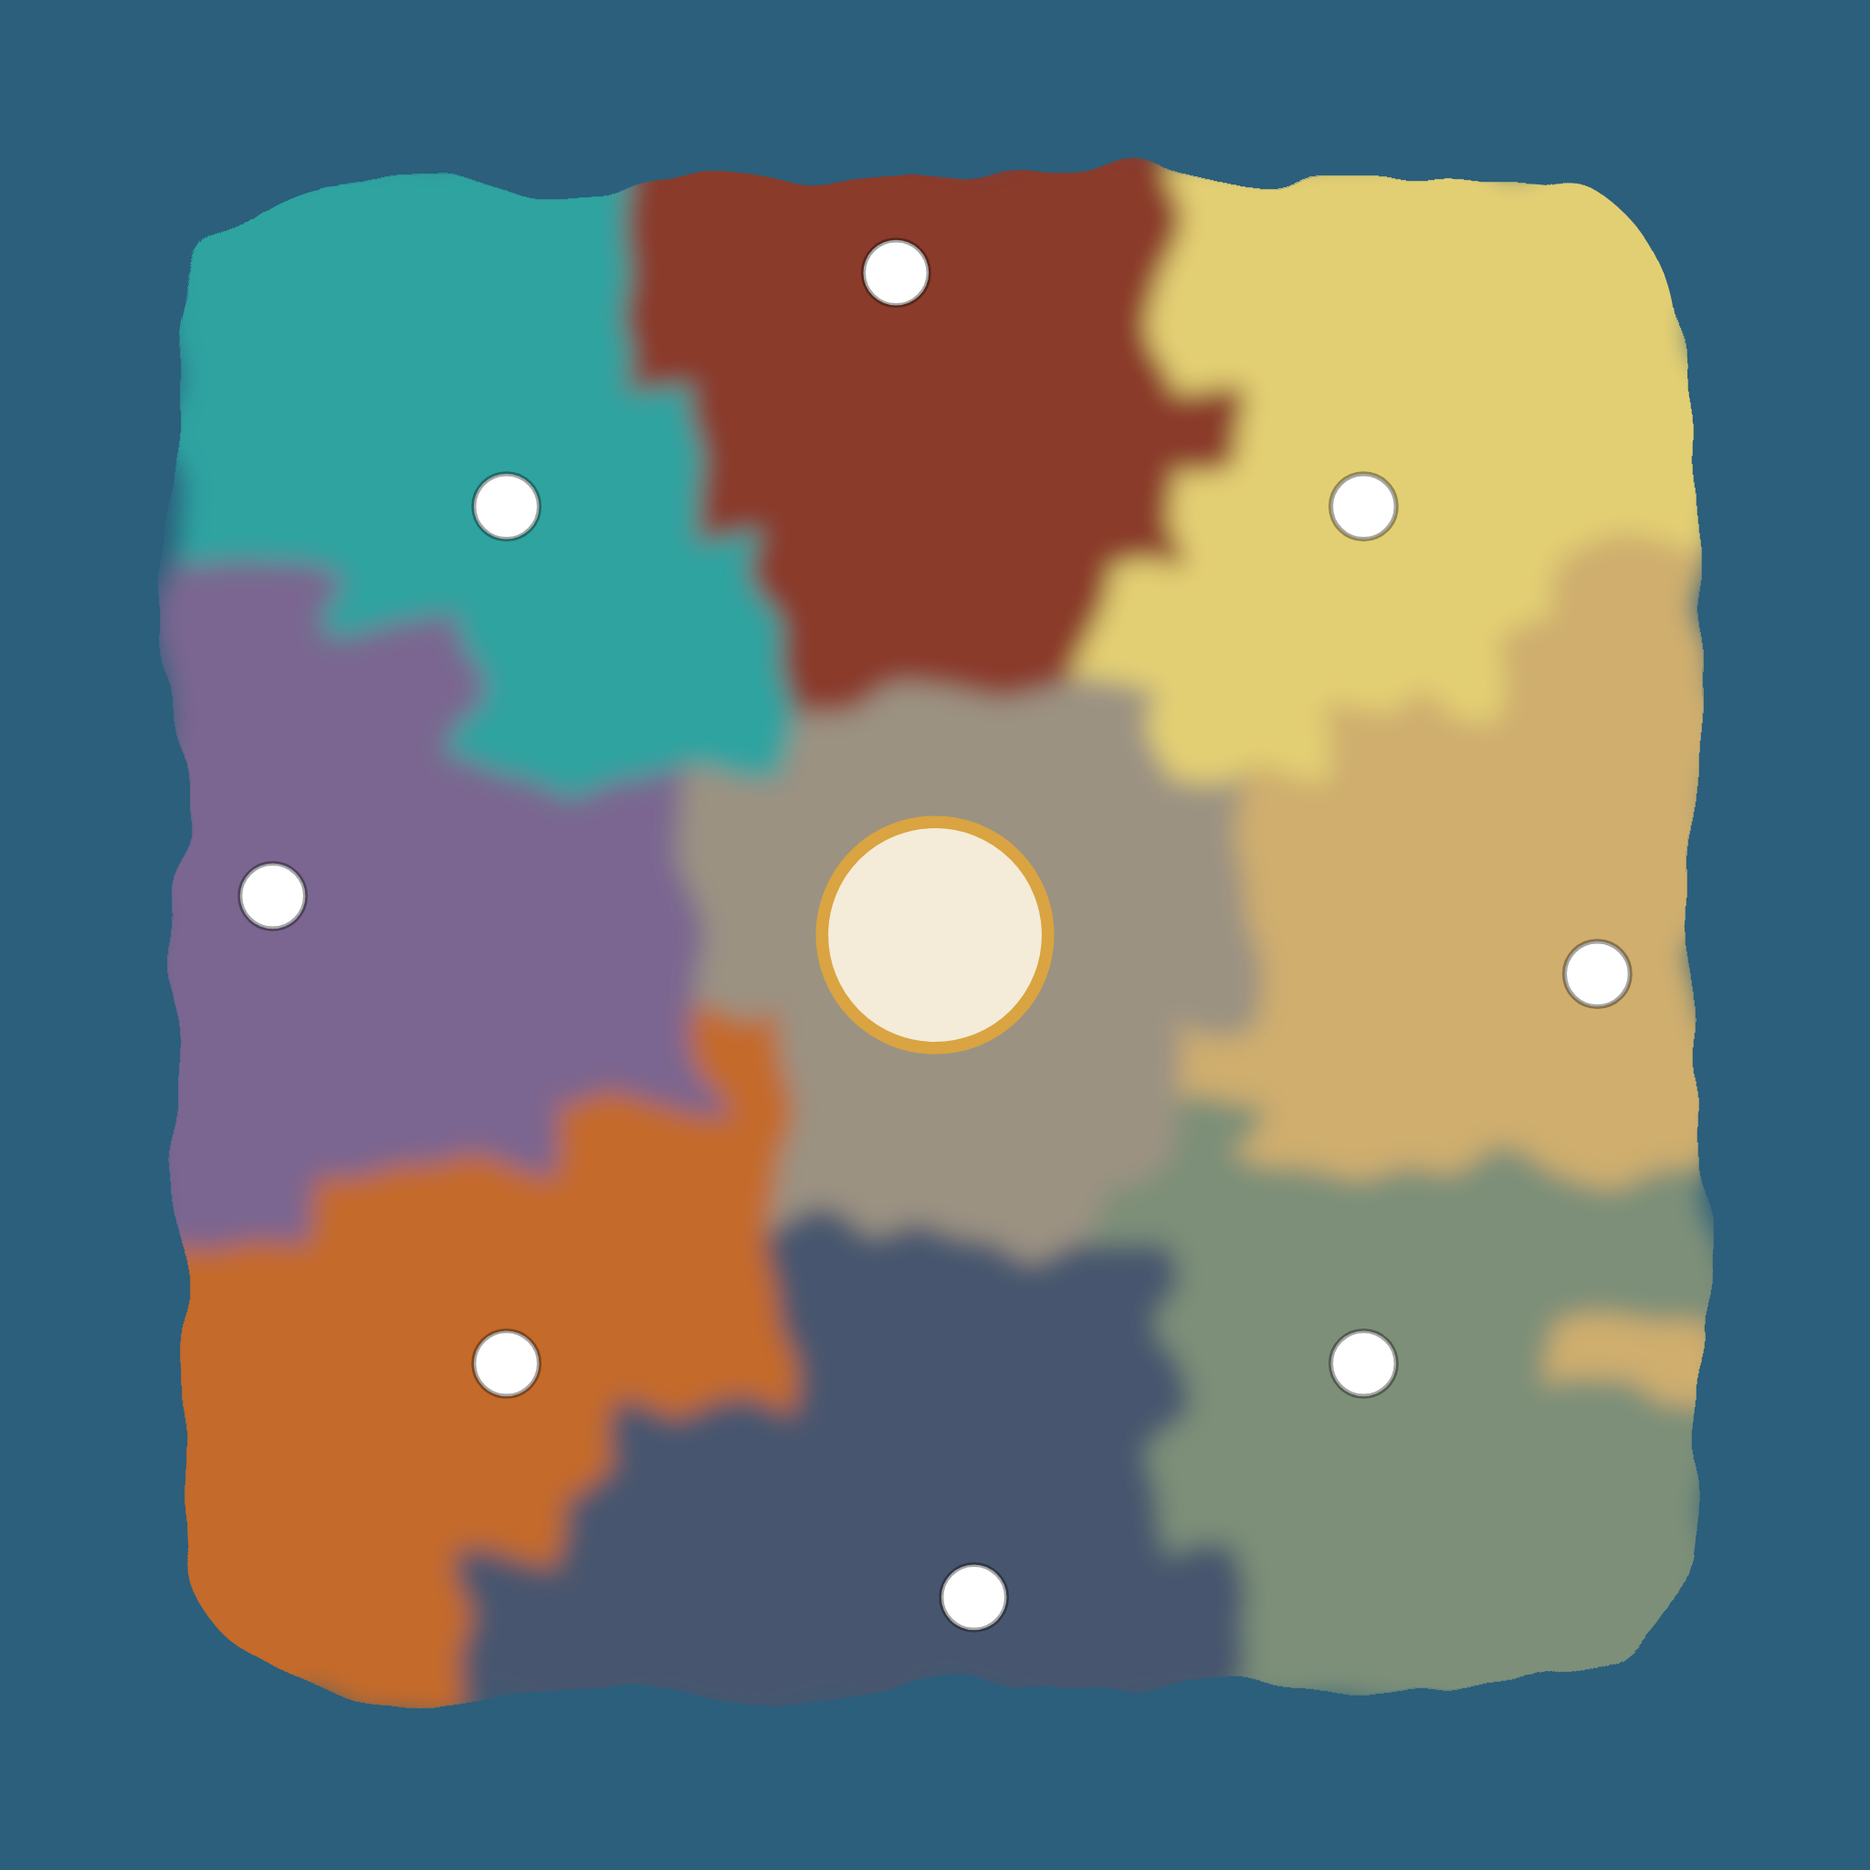
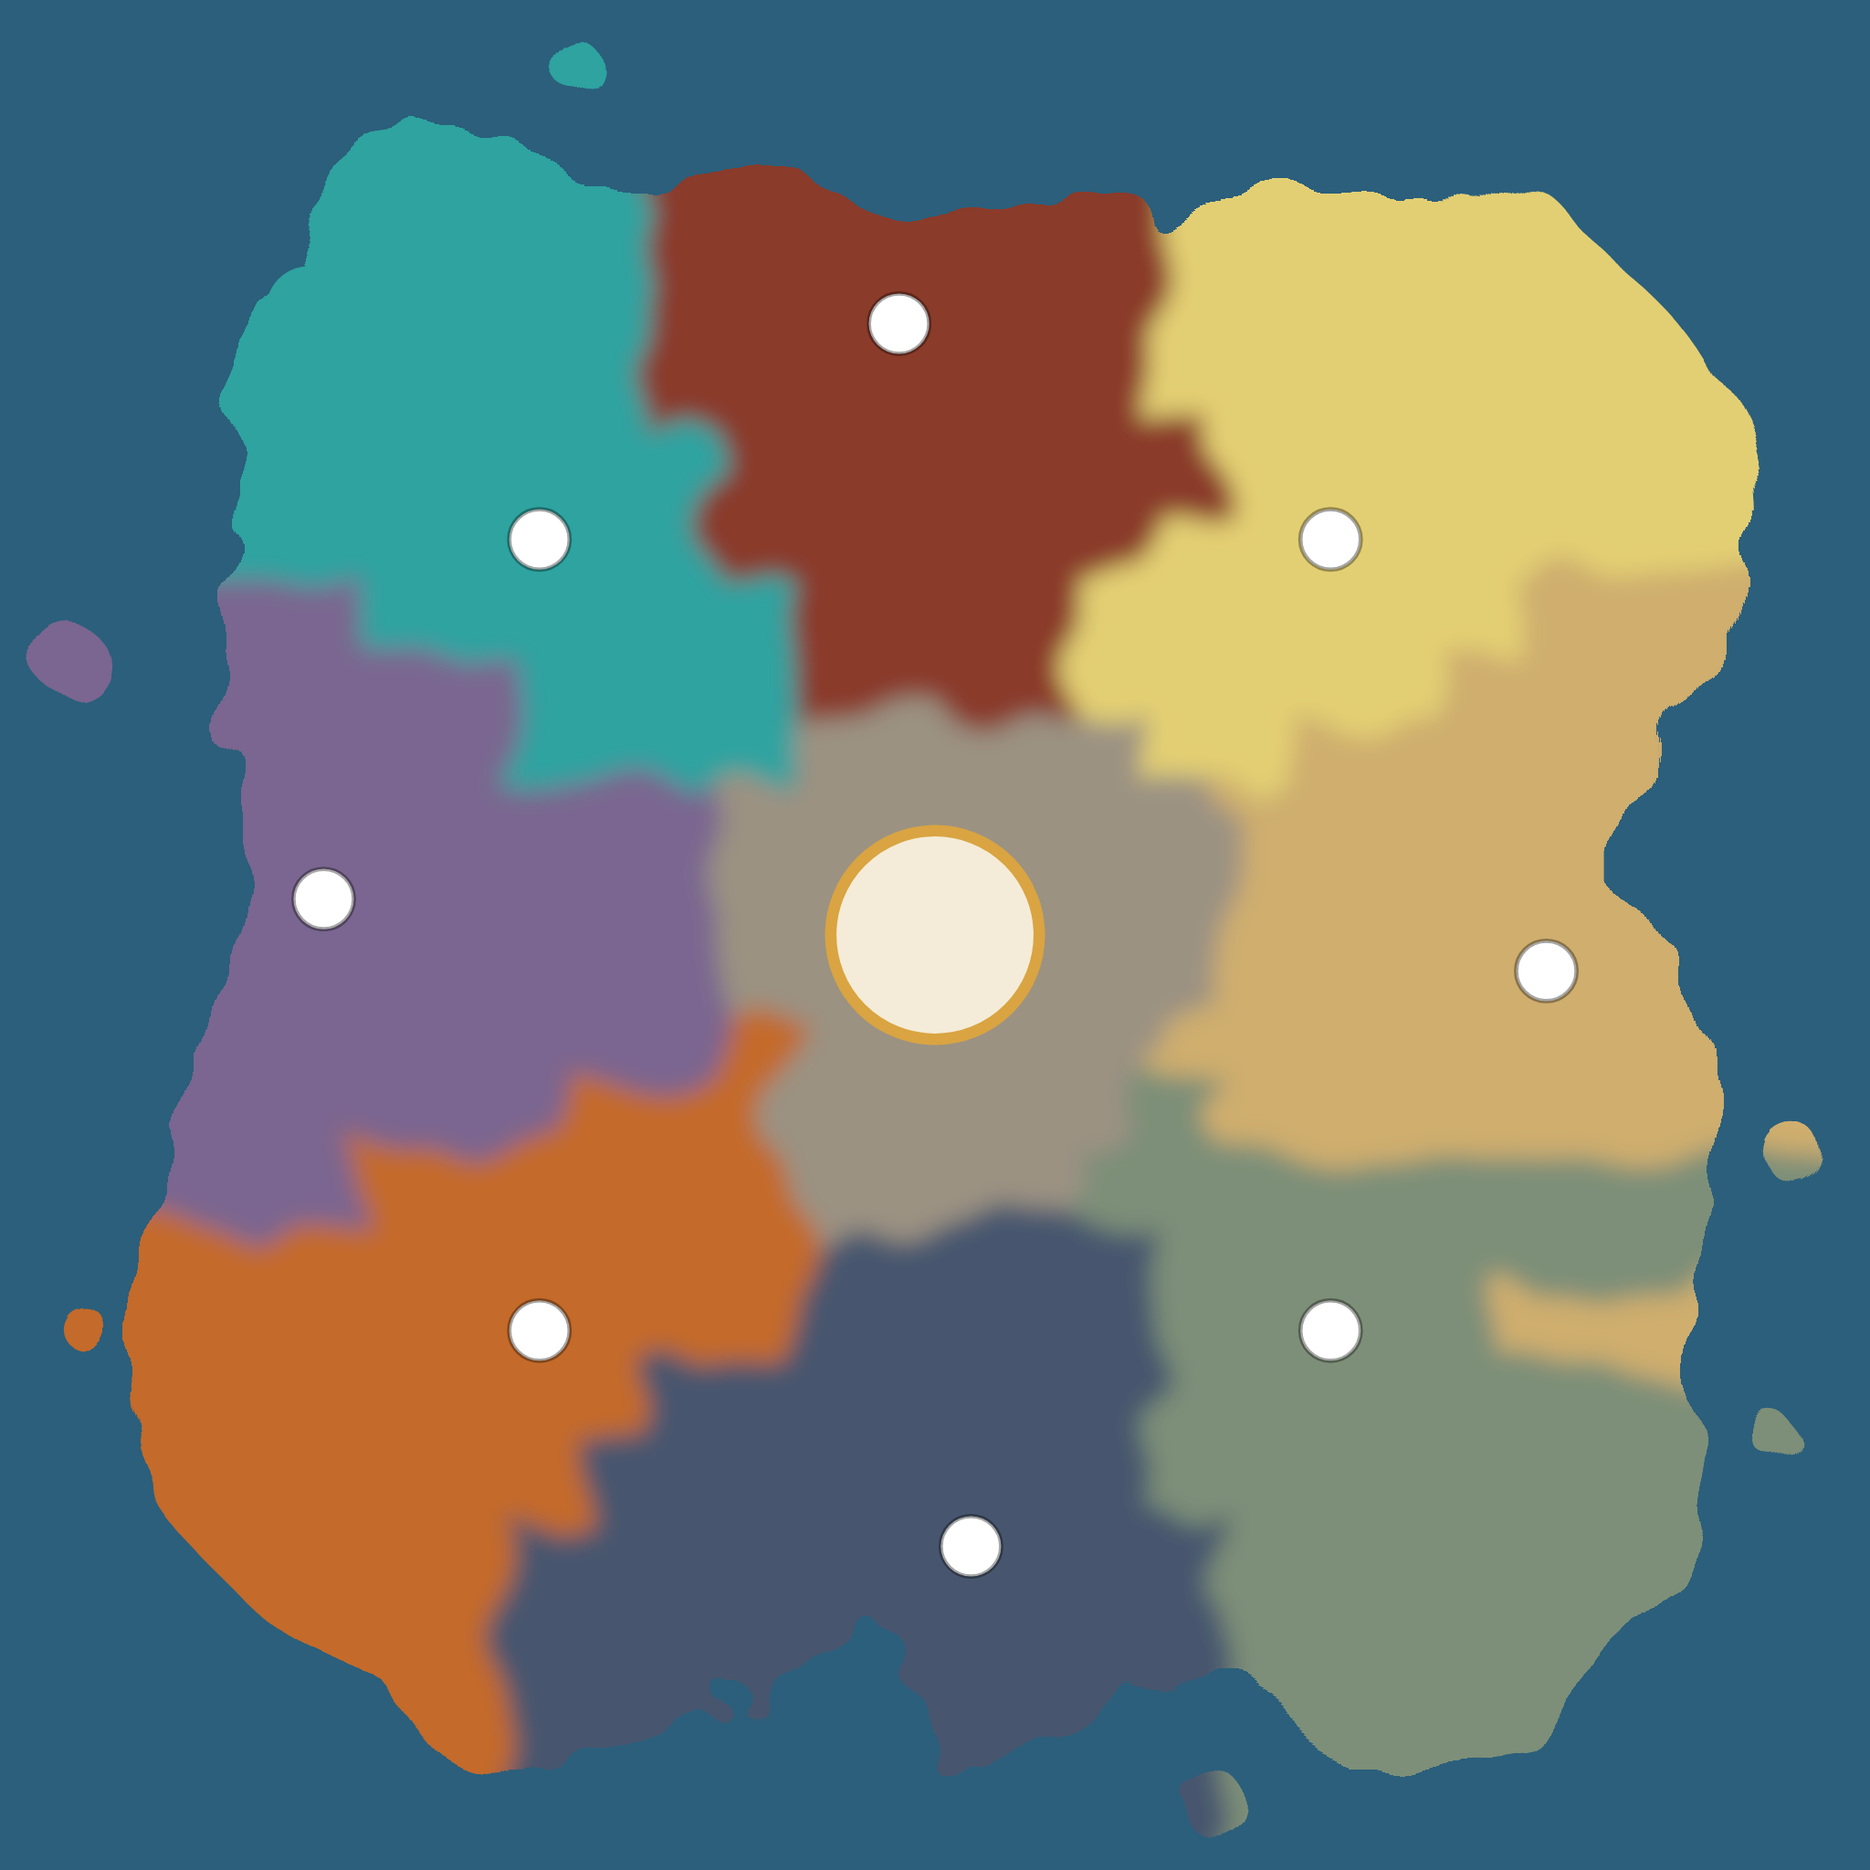
Board guide: a wild coastline that only pushes outward
The island guide had a near-square coast. The new guide gives the
continent headlands, peninsulas, bays and offshore islands in a 4-square
ocean band, while every playable square stays land. The art guide's
seat positions, prompts and checklist match (paintings from this guide
use imageMargin 4).

Claude-Session: https://claude.ai/code/session_01YAnSxFxcnPAhQ8NFJcHZDX

diff --git a/src/assets.config.ts b/src/assets.config.ts
@@ -67,7 +67,8 @@ export const TERRAIN_ART: Record<HouseId | 'heartland', TerrainArt> = {
 export const BOARD_ART = {
   // The painted board (docs/art/ART-GUIDE.md §3). Without it, the drawn homeland terrain is used.
   image: '/art/board.webp' as string | undefined,
-  // Squares of ocean the painting includes on each side of the 18 × 18 board (0 = the image is just the board).
+  // Squares of ocean the painting includes on each side of the 18 × 18 board (0 = the image is just the board;
+  // paintings made from the current guide use 4).
   imageMargin: 0,
   light: '#2a2026',
   dark: '#251c21',

diff --git a/docs/art/ART-GUIDE.md b/docs/art/ART-GUIDE.md
@@ -106,18 +106,20 @@ In Midjourney, put the avoid list in `--no text, letters, numbers, watermark, si
   painting has **no grid and no markers**.
 - Because the app tilts it, the painting must be a **straight top-down view**: no perspective, no horizon,
   no sides of buildings leaning outward.
-- **The painting is an island in the ocean.** The 18×18 playable squares fill the **middle 75%** of the
-  image; the outer band (3 squares wide on every side) is open sea. The game lines the island up with the
-  grid and lets the painted ocean fade into its own sea, so nothing at the edge of the board gets cut off.
+- **The painting is a continent in the ocean.** The 18×18 playable squares fill the **middle 69%** of the
+  image, with a band 4 squares wide on every side for coast and sea. The coastline is wild and natural:
+  headlands, peninsulas, capes, bays and offshore islands all push **outward** into that band, but it never
+  cuts inward into the playable squares. The game lines the continent up with the grid and lets the painted
+  ocean fade into its own sea, so nothing at the edge of the board gets cut off.
 
 | File | Size | Format | Background |
 |---|---|---|---|
-| `board.png` | **4096 × 4096** (2048 × 2048 at the very least) | PNG | Opaque: an island filling the middle 75%, ocean around it. |
+| `board.png` | **4096 × 4096** (2048 × 2048 at the very least) | PNG | Opaque: a continent in the middle, with ocean around it. |
 
 ### The layout (must match the rules)
 Attach **`docs/art/board-guide.png`** to the prompt.
-- **Blue outer band:** open ocean. The coastline runs just outside the playable squares, so every square is
-  on land.
+- **Blue:** open ocean. The guide's coastline is the shape to follow: it wanders well outside the playable
+  squares in places and comes close in others, but every playable square is land.
 - **Coloured areas:** each is one homeland. Their sizes and soft borders match the game's own map.
 - **The ring in the middle:** Elodie's Throne. It covers the centre 2×2 squares, about the middle 8% of
   the image.
@@ -127,17 +129,17 @@ Attach **`docs/art/board-guide.png`** to the prompt.
 
 | Seat | House (tile) | Where | Across, down |
 |---|---|---|---|
-| Ardencia | Brasador (War) | North coast, middle | 48%, 15% |
-| Zetwal | Kay Soley (Court) | Upper right | 73%, 27% |
-| Al-Doria | Dorini (Trade) | East coast, middle | 85%, 52% |
-| Skarragol | Ironvow (War) | Lower right | 73%, 73% |
-| Kuroshi | Suzumori (Court) | South coast, middle | 52%, 85% |
-| Jwaladesh | Agnivansh (War) | Lower left | 27%, 73% |
-| Aldermoor | Stillwater (Court) | West coast, middle | 15%, 48% |
-| Moa'olani | Vai'tama (Trade) | Upper left | 27%, 27% |
+| Ardencia | Brasador (War) | North coast, middle | 48%, 17% |
+| Zetwal | Kay Soley (Court) | Upper right | 71%, 29% |
+| Al-Doria | Dorini (Trade) | East coast, middle | 83%, 52% |
+| Skarragol | Ironvow (War) | Lower right | 71%, 71% |
+| Kuroshi | Suzumori (Court) | South side, middle | 52%, 83% |
+| Jwaladesh | Agnivansh (War) | Lower left | 29%, 71% |
+| Aldermoor | Stillwater (Court) | West coast, middle | 17%, 48% |
+| Moa'olani | Vai'tama (Trade) | Upper left | 29%, 29% |
 
-The four middle-of-the-edge seats sit right on the coast, which suits them: Ardencia's fortress on its
-cliffs, Al-Doria's harbour, Kuroshi's castle on a rocky point and Aldermoor's keep above the shore.
+The four middle-of-the-edge seats sit near the coast, which suits them: Ardencia's fortress on its cliffs,
+Al-Doria's harbour, Kuroshi's castle above its bays and Aldermoor's keep above the shore.
 
 If a seat lands within about half a square of its dot, I can nudge the image to fit. Further off than that,
 repaint that spot.
@@ -179,22 +181,24 @@ repaint that spot.
    across the whole map.
 5. **Keep the centre throne ring and each seat spot open:** a plaza or courtyard, so the markers sit
    cleanly.
-6. **Ocean all the way to the image edges,** deep and calm, so it blends into the game's sea.
+6. **A coastline with character:** headlands, peninsulas, bays and a few islands, like a real continent,
+   never a smooth or straight edge. Ocean, deep and calm, runs all the way to the image edges so it blends
+   into the game's sea.
 7. **Nothing else on the map:** no people, animals larger than tiny herds, clouds over the land, text or
    compass rose.
 
 ### Prompt for ChatGPT (recommended): attach `board-guide.png`
 ```
-Paint a square, straight top-down (orthographic, no perspective, no horizon) fantasy game-board map: one roughly square island continent made of eight homelands around a central plaza, surrounded on every side by open ocean.
+Paint a square, straight top-down (orthographic, no perspective, no horizon) fantasy game-board map: one continent made of eight homelands around a central plaza, set in the middle of open ocean.
 
-Use the attached guide image ONLY for layout. The blue band around the outside is open ocean: paint deep, calm sea all the way to the image edges. The coastline must follow the guide's coast closely — beaches, low cliffs and small coves are welcome, but the land must cover everything the guide shows as land; never let the sea cut into it. Each flat coloured area is one homeland — keep every homeland in the same place and about the same size and shape, with soft, natural, wandering borders (rivers, ridges, forest edges), never drawn lines. Do not copy the guide's flat colours; repaint each area as real terrain. The pale ring in the centre is Elodie's Throne: paint a round plaza of pale marble inlaid with gold filigree rings, with eight old paved roads leading out toward each homeland. Each white dot marks a house's seat: paint an open courtyard or plaza exactly on each dot, on dry land, with that land's signature building right beside it. Four dots sit on the coast; their buildings stand on the shore.
+Use the attached guide image ONLY for layout. The blue is open ocean: paint deep, calm sea all the way to the image edges. Follow the guide's coastline shape: a wild, natural, irregular coast with headlands, peninsulas, capes, bays, coves, beaches, cliffs and the small offshore islands shown — never a straight or smooth edge. The land must cover everything the guide shows as land; the sea may never cut inward into it. Each flat coloured area is one homeland — keep every homeland in the same place and about the same size and shape, with soft, natural, wandering borders (rivers, ridges, forest edges), never drawn lines. Do not copy the guide's flat colours; repaint each area as real terrain. The pale ring in the centre is Elodie's Throne: paint a round plaza of pale marble inlaid with gold filigree rings, with eight old paved roads leading out toward each homeland. Each white dot marks a house's seat: paint an open courtyard or plaza exactly on each dot, on dry land, with that land's signature building right beside it. The four dots on the north, east, south and west sides sit near the coast.
 
 Homelands (positions as on the guide):
 - North (deep red area): Ardencia — scorched volcanic highlands, black basalt and rust-red rock, faint glowing lava seams, dry scrub and cork oaks; a walled fortress with terracotta roofs on the north coast cliffs at its seat.
 - North-east (yellow area): Zetwal — sun-bright land, golden fields, palm and mango groves, colourful roofs with lacy carved trim; a white-and-gold sun temple court at its seat.
 - East (tan area): Al-Doria — golden dunes running down to a white-domed harbour city on the east coast, striped bazaar awnings, date palms, caravan tracks, ships in the harbour out at sea; a grand caravanserai courtyard on the shore at its seat.
 - South-east (grey-green area): Skarragol — grassy steppe with turf-roofed longhouses beside round felt yurts and tiny horse herds; fjords cut into the coast from the ocean but stay outside the guide's land; a timber-and-stone hall with a round horse paddock at its seat.
-- South (slate-blue area): Kuroshi — dark cedar forest, moss, terraced paddies, ribbons of mist; a castle compound with tiered curved roofs on a rocky point of the south coast at its seat.
+- South (slate-blue area): Kuroshi — dark cedar forest, moss, terraced paddies, ribbons of mist, a rugged coast of rocky points and small bays; a castle compound with tiered curved roofs at its seat.
 - South-west (orange area): Jwaladesh — ochre and saffron plains, red-sandstone fort-palaces, a stepwell, banyan trees and flame-orange flowering trees; a palace courtyard ringed with braziers at its seat.
 - West (purple area): Aldermoor — fog-wrapped moorland, purple heather, dry-stone walls, hedgerows, alder trees, a dark, perfectly still tarn; an old grey stone keep above the west shore at its seat.
 - North-west (turquoise area): Moa'olani — small green hills joined by white-sand flats and shallow turquoise lagoons, coral, outrigger canoes; a thatched meeting house on stilts at its seat.
@@ -209,7 +213,7 @@ Avoid: any text, letters, numbers, labels, map legends or compass roses; waterma
 
 ### Prompt for Midjourney (alternative): upload `board-guide.png` as an image prompt
 ```
-<guide image URL> top-down orthographic fantasy atlas map of a roughly square island continent filling the middle of the image, surrounded on all sides by deep calm ocean to the edges; eight homelands around a central round marble-and-gold throne plaza with eight paved roads radiating out; north: volcanic basalt highlands with glowing lava seams and a terracotta fortress on the coast cliffs; north-east: sun-bright fields, palm groves, colourful carved roofs and a white-gold sun temple; east: golden dunes and a white-domed harbour city on the coast; south-east: grassy steppe with longhouses and felt yurts; south: cedar forest and mist with a tiered-roof castle on a rocky point; south-west: ochre plains, red sandstone fort-palace and stepwell; west: purple heather moorland, stone walls, a grey keep by a still tarn above the shore; north-west: turquoise lagoons and green hills with a stilted thatched hall; soft natural borders, calm medium detail, hand-painted gouache and oil glaze over ink linework, gold-leaf accents, warm paper grain, rich muted jewel tones, soft light from upper left --ar 1:1 --v 7 --style raw --iw 1.5 --no text, letters, labels, compass, grid, border, frame, people, perspective, horizon, 3d render, photo
+<guide image URL> top-down orthographic fantasy atlas map of a continent in the middle of the image with a wild irregular coastline of headlands, peninsulas, bays and small offshore islands, surrounded on all sides by deep calm ocean to the edges; eight homelands around a central round marble-and-gold throne plaza with eight paved roads radiating out; north: volcanic basalt highlands with glowing lava seams and a terracotta fortress on the coast cliffs; north-east: sun-bright fields, palm groves, colourful carved roofs and a white-gold sun temple; east: golden dunes and a white-domed harbour city on the coast; south-east: grassy steppe with longhouses and felt yurts; south: cedar forest and mist with a tiered-roof castle on a rocky point; south-west: ochre plains, red sandstone fort-palace and stepwell; west: purple heather moorland, stone walls, a grey keep by a still tarn above the shore; north-west: turquoise lagoons and green hills with a stilted thatched hall; soft natural borders, calm medium detail, hand-painted gouache and oil glaze over ink linework, gold-leaf accents, warm paper grain, rich muted jewel tones, soft light from upper left --ar 1:1 --v 7 --style raw --iw 1.5 --no text, letters, labels, compass, grid, border, frame, people, perspective, horizon, 3d render, photo
 ```
 Midjourney follows the layout loosely. Check the seats against the guide and fix misplaced ones with
 *Vary Region*.
@@ -228,7 +232,8 @@ Midjourney follows the layout loosely. Check the seats against the guide and fix
 - [ ] Each of the 8 seats sits on its dot, within half a square.
 - [ ] All 8 lands are easy to tell apart on a thumbnail.
 - [ ] There's no text, grid, frame or people.
-- [ ] The island fills the middle, matching the guide's coast, with ocean all the way to every edge.
+- [ ] The continent fills the middle with a wild coastline like the guide's (headlands, bays, islands),
+  every playable square on land, and ocean all the way to every edge.
 
 ### Plan B, if one painting won't follow the layout
 Paint each land as a separate **seamless top-down texture** and I'll blend them into the game's exact
